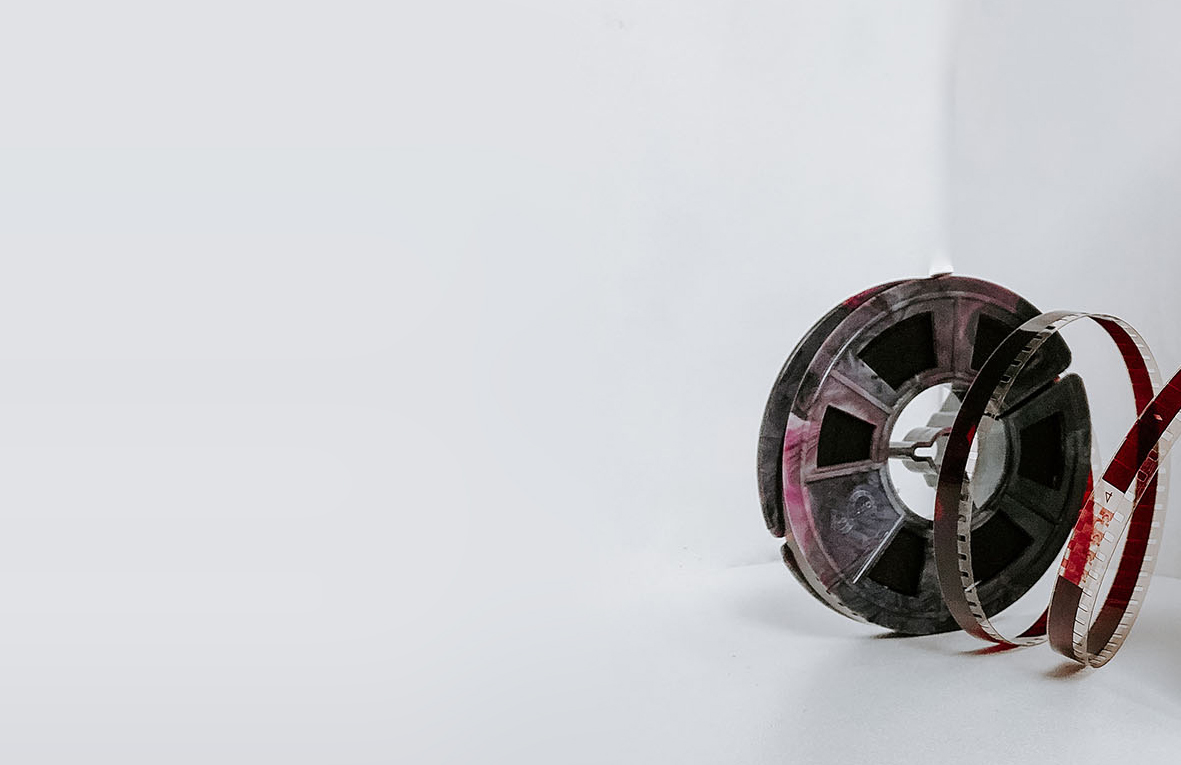
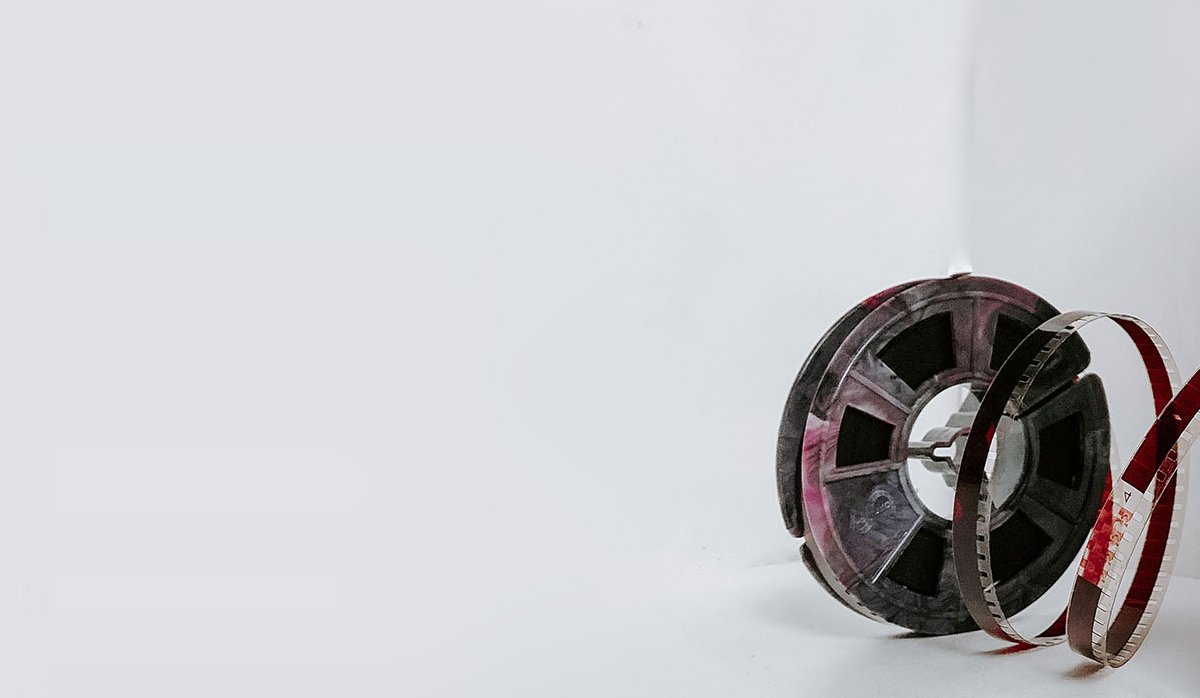
adjust css

Changed region(s): [[0.6401, 0.361, 1.0, 1.0]]

diff --git a/ensemble_client/src/index.css b/ensemble_client/src/index.css
@@ -2,7 +2,6 @@
 @import url("https://fonts.googleapis.com/css?family=Alfa+Slab+One|Merriweather|Montserrat|Raleway&display=swap");
 
 :root {
-
   --background-color: #dfe1e5;
   /* background-image: linear-gradient(to top, #e6ecf0 0%, #dfe1e5 100%); */
 }
@@ -82,22 +81,22 @@ button {
   /* border-radius: 4px; */
   background: transparent;
 }
-/* button:hover,
-button:active {
-  background:  #4e0307;
-  border: 1px solid transparent;
-  color: white;
-} */
+
+.Page {
+  padding: 0em 2em;
+  min-height: 95vh;
+  background: var(--background-color);
+}
 
 .logo {
   margin-top: 0.2em;
+  margin-right: 1em;
   height: 3em;
 }
 
 .nav-header {
   position: sticky;
   top: 0;
-  /* opacity: 0.9; */
 }
 
 .NavBar {
@@ -108,10 +107,9 @@ button:active {
   padding: 0.2em 1.5em;
 }
 
-.Page {
-  padding: 0em 1vw;
-  min-height: 95vh;
-  background: var(--background-color);
+.menu li > a {
+  font-size: 0.7em;
+  color: white;
 }
 
 .session {
@@ -133,7 +131,7 @@ button:active {
   margin-top: 10vh;
   display: flex;
   flex-wrap: wrap;
-  min-height: 60vh;
+  min-height: 50vh;
   align-items: center;
 }
 
@@ -143,9 +141,8 @@ button:active {
   width: 80%;
   max-height: 40vh;
   border: 1px solid transparent;
-  padding: 2em 2em 1em 2em;
+  padding: 0;
 }
-
 
 .job-post h3 {
   padding-top: 0;
@@ -154,6 +151,7 @@ button:active {
 .job-title {
   color: #8a0216;
 }
+
 a:link,
 a:visited,
 a:hover,
@@ -165,25 +163,21 @@ a:active {
   line-height: 1.4em;
   max-width: 40em;
 }
+
 .menu {
   display: flex;
   flex-direction: row;
   justify-content: space-between;
   width: 100%;
-  padding-top: 0.95em;
+  padding-top: 1em;
   align-items: center;
-}
-
-.menu li > a {
-  font-size: 1.25rem;
-  color: white;
 }
 
 .welcome {
   text-align: center;
   color: white;
   max-width: 100%;
-  min-height: 100vh;
+  max-height: 100vh;
 }
 
 .welcome-image-div {
@@ -197,7 +191,7 @@ a:active {
   top: 50%;
   left: 50%;
   transform: translate(-50%, -50%);
-  background-color: rgba(85, 84, 84, 0.068);
+  text-shadow: 2px 2px #000;
 }
 
 .welcome-image {
@@ -206,23 +200,38 @@ a:active {
 }
 
 .welcome-card {
-  background: rgb(247, 247, 247);
   color: rgb(29, 29, 29);
-  min-height: 50vh;
+  text-align: center;
 }
 
 .welcome-card-text {
+  min-height: 50%;
+}
+
+.welcome-card-text h4 {
+  color: #8a0216;
+  padding-top: 15vh;
+}
+
+.welcome-card-text p {
+  padding: 5vh;
+  line-height: 1.5em;
 }
 
 /* DESKTOP LAST */
 @media (min-width: 1024px) {
-
   .Page {
     padding: 0em 8vw;
   }
 
+  .welcome-card,
+  .welcome-card-text {
+    display: none;
+  }
+
   .job-post {
     width: 100%;
+    padding: 2em 2em 1em 2em;
     margin-bottom: 2em;
   }
 
@@ -231,7 +240,7 @@ a:active {
     border: 1px solid #4e0307;
     box-shadow: 5px 5px 0px 1px #4e0307;
   }
-  
+
   .post-container {
     background: url(../src/film-background.jpg);
     background-position: bottom right;

diff --git a/ensemble_client/src/components/WelcomePage.js b/ensemble_client/src/components/WelcomePage.js
@@ -36,24 +36,33 @@ export class WelcomePage extends Component {
       <div className="welcome">
         <div className="welcome-image-div">
           <div className="welcome-text-div">
-            <h1> Ensemble </h1>
+            <h1 style={{fontSize:"5em"}}> Ensemble </h1>
             <p
               style={{
                 fontWeight: "400",
-                fontSize: "1.2em"
+                fontSize: "1.85em",
+                lineHeight: "1.2em"
               }}
             >
-              {" "}
-              Helping you assemble your dream ensemble!{" "}
+              Assemble your dream creative team for film and theatre.
             </p>
           </div>
           <img className="welcome-image" src={image} />
         </div>
         <div className="welcome-card">
-        <div className="welcome-card-text">
-        {/* <h4>Sidestep the Gatekeepers</h4>
-        <p>With performance based industries being so difficult to penetrate as a newcomer, finding work has always been a struggle in the arts. Ensemble is a tool built to remedy the gap in an industry which has made opportunities inaccessible to the outsider. Whether you are a casting director looking for new blood, a stage hand searching for work, or a director on the hunt for your next project, Ensemble is a bridge between creatives, creative communities, and the creative industry at large. </p> */}
-        </div>
+          <div className="welcome-card-text">
+            <h4>Sidestep the Gatekeepers</h4>
+            <p>
+              With performance based industries being so difficult to penetrate
+              as a newcomer, finding work has always been a struggle in the
+              arts. Ensemble is a tool built to remedy the gap in an industry
+              which has made opportunities inaccessible to the outsider. Whether
+              you are a casting director looking for new blood, a stage hand
+              searching for work, or a director on the hunt for your next
+              project, Ensemble is a bridge between creatives, creative
+              communities, and the creative industry at large.
+            </p>
+          </div>
         </div>
       </div>
     );
